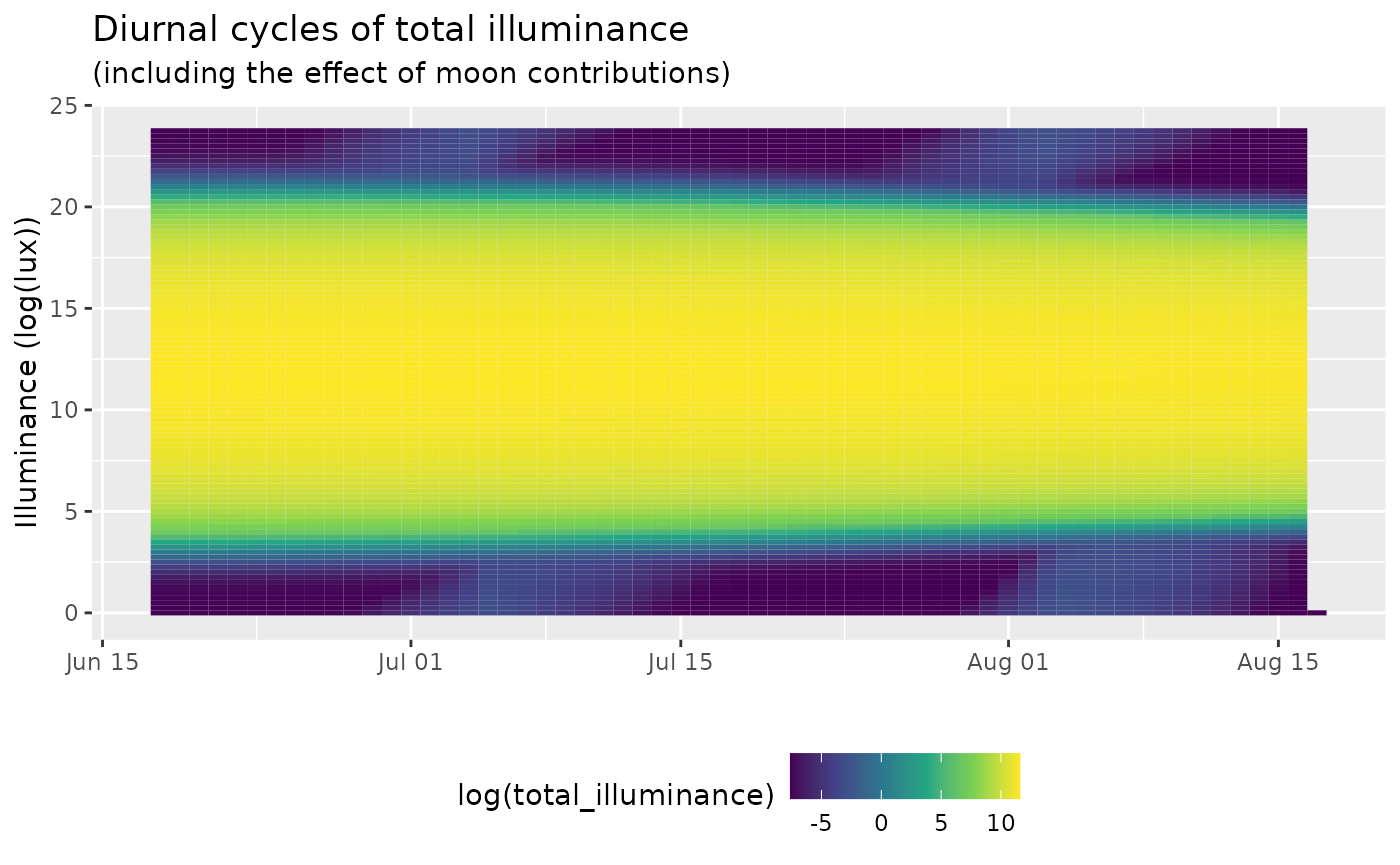
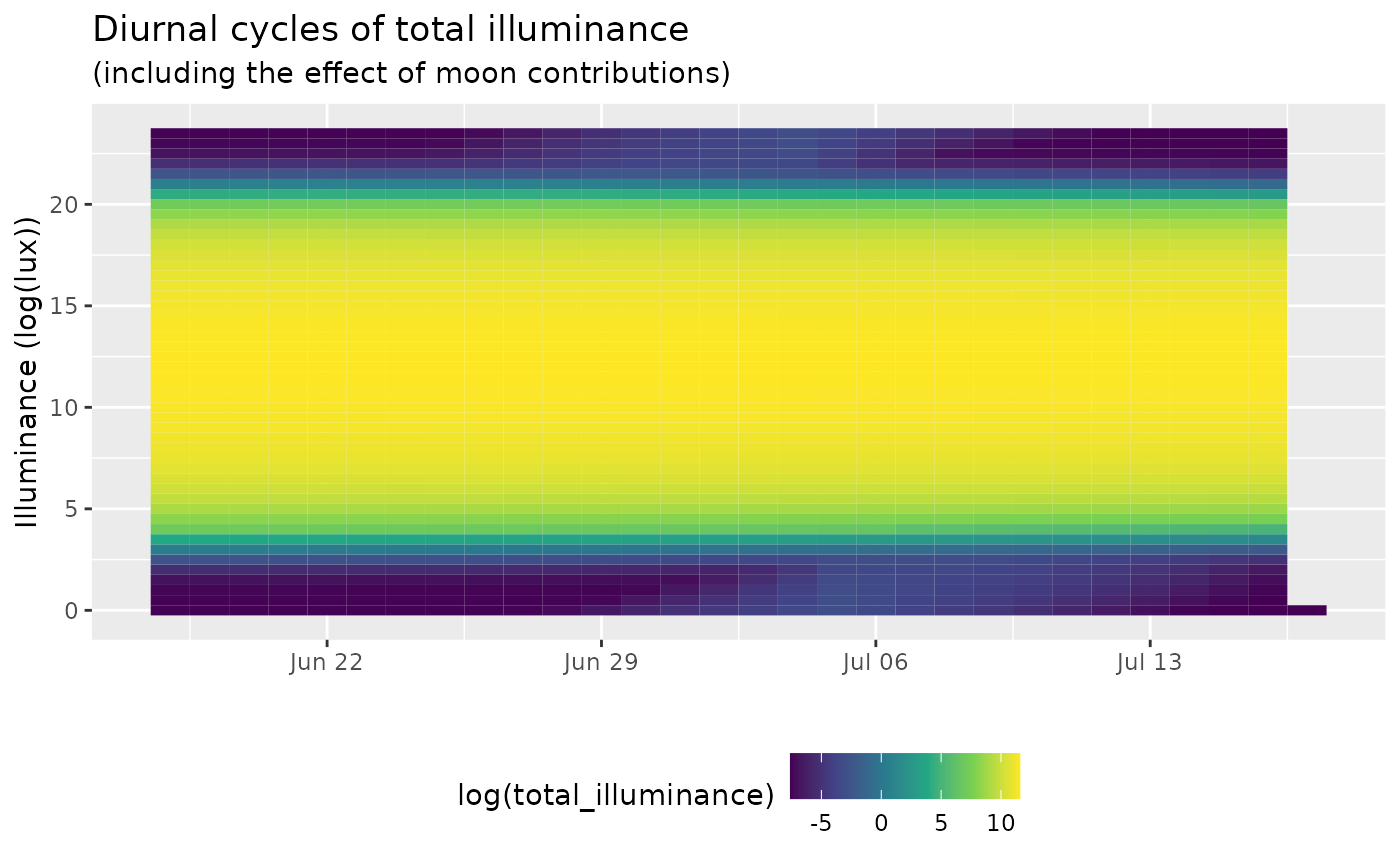
new docs

diff --git a/docs/index.html b/docs/index.html
@@ -5,7 +5,7 @@
 <meta charset="utf-8">
 <meta http-equiv="X-UA-Compatible" content="IE=edge">
 <meta name="viewport" content="width=device-width, initial-scale=1.0">
-<title>Sun and Moon illuminance values • skylight</title>
+<title>A simple sky illuminance model • skylight</title>
 <!-- favicons --><link rel="icon" type="image/png" sizes="16x16" href="/favicon-16x16.png">
 <link rel="icon" type="image/png" sizes="32x32" href="/favicon-32x32.png">
 <link rel="apple-touch-icon" type="image/png" sizes="180x180" href="/apple-touch-icon.png">
@@ -18,11 +18,12 @@
 <link href="https://fonts.googleapis.com/css2?family=Titillium+Web:ital,wght@0,300;0,400;0,700;1,300;1,400&amp;display=swap" rel="stylesheet">
 <!-- clipboard.js --><script src="https://cdnjs.cloudflare.com/ajax/libs/clipboard.js/2.0.4/clipboard.min.js" integrity="sha256-FiZwavyI2V6+EXO1U+xzLG3IKldpiTFf3153ea9zikQ=" crossorigin="anonymous"></script><!-- headroom.js --><script src="https://cdnjs.cloudflare.com/ajax/libs/headroom/0.9.4/headroom.min.js" integrity="sha256-DJFC1kqIhelURkuza0AvYal5RxMtpzLjFhsnVIeuk+U=" crossorigin="anonymous"></script><script src="https://cdnjs.cloudflare.com/ajax/libs/headroom/0.9.4/jQuery.headroom.min.js" integrity="sha256-ZX/yNShbjqsohH1k95liqY9Gd8uOiE1S4vZc+9KQ1K4=" crossorigin="anonymous"></script><!-- pkgdown --><link href="pkgdown.css" rel="stylesheet">
 <script src="pkgdown.js"></script><!-- ropensci --><link href="bglabs.css" rel="stylesheet">
-<meta property="og:title" content="Sun and Moon illuminance values">
-<meta property="og:description" content="Calculates sky illuminance (in lux) for both sun and moon. A
- verbatim translation of the code included in `Computer Programs for Sun and
- Moon Illuminance With Contingent Tables and Diagrams by Janiczek and DeYoung
- published in the US Naval observatory circular nr. 171, 1987.">
+<meta property="og:title" content="A simple sky illuminance model">
+<meta property="og:description" content="A simple sky illuminance model which calculates values (in lux) 
+ for both sun and moon. The model is a verbatim translation of the code 
+ included in `Computer Programs for Sun and Moon Illuminance With Contingent 
+ Tables and Diagrams by Janiczek and DeYoung published in the US Naval 
+ observatory circular nr. 171, 1987.">
 <meta property="og:image" content="/logo.png">
 <meta name="twitter:card" content="summary">
 </head>
@@ -95,14 +96,25 @@
       </header><div class="row">
   <div class="contents col-md-9">
 <div class="section level1">
-<div class="page-header"><h1 id="sky-illuminance-">Sky Illuminance <a href="https://github.com/bluegreen-labs/skylight" class="external-link"><img src="logo.png" align="right" height="139"></a>
-<a class="anchor" aria-label="anchor" href="#sky-illuminance-"></a>
+<div class="page-header"><h1 id="skylight-">Skylight <a href="https://github.com/bluegreen-labs/skylight" class="external-link"><img src="logo.png" align="right" height="139"></a>
+<a class="anchor" aria-label="anchor" href="#skylight-"></a>
 </h1></div>
 
-<p>The skylight package returns sky illuminance parameters for both the sun and the moon, for a given date/time and locaion. In addition to some ancillary parameters such as sun and moon azimuth and altitude.</p>
-<p>The code is an almost verbatim transcription of the work by Janiczek and DeYoung (1987), published in the US Naval observatory circular. An online copy of this manuscripts can be found on the internet archive (<a href="https://archive.org/details/DTIC_ADA182110" class="external-link uri">https://archive.org/details/DTIC_ADA182110</a>)</p>
-<p>Very few adjustments to the original code where made to ensure parity. As such, most of the naming of the subroutines was retained. However, some changes were made to the main routine and some aspects of the subroutines to ensure vectorization of the code so speed up batch processing of data.</p>
-<p>With time more detailed information will be added to all functions, including references to subroutine functions and more transparent variable names, while limiting variable recycling (a common practice in this code base). As it stands the code delivers parity with the programme certification values published in Table A of Janiczek and DeYoung (1987). These values are used in unit testing.</p>
+<p>The <code>skylight</code> package returns sky illuminance parameters for both the sun and the moon, for a given date/time and location. In addition, ancillary parameters such as sun and moon azimuth and altitude are provided. The code is an almost verbatim transcription of the work by Janiczek and DeYoung (1987), published in the US Naval observatory circular. An online copy of this manuscripts can be found on the internet archive (<a href="https://archive.org/details/DTIC_ADA182110" class="external-link uri">https://archive.org/details/DTIC_ADA182110</a>)</p>
+<p>Very few adjustments to the original code where made to ensure equivalency in results. As such, most of the naming of the subroutines and variables was retained. However, some changes were made to the main routine and subroutines to ensure vectorization of the code to speed up batch processing of data.</p>
+<p>With time more detailed information will be added to all functions, including references to subroutine functions and more transparent variable names, while limiting variable recycling (a common practice in the original code base). The code delivers equivalent results with the programme certification values published in Table A of Janiczek and DeYoung (1987), as such all original limitations remain (see below).</p>
+<div class="section level2">
+<h2 id="limitations">Limitations<a class="anchor" aria-label="anchor" href="#limitations"></a>
+</h2>
+<p>The sky illuminance model by Janiczek and DeYoung (1987) in <code>skylight</code> has some limitations:</p>
+<ul>
+<li>Design specifications aimed for 0.5 degrees in angle, or two minutes of times. Last digits should be considered uncertain by one unit.</li>
+<li>At latitudes less than 60 degrees, the model should agree with more refined calculations to within one or two minutes of time. For latitudes above this value the model can produce errors of up to four minutes.</li>
+<li>In some circumstances calculated illuminance values might differ from real light levels of a factor 10 or more.</li>
+<li>Strong coherence and proper time keeping is required, there is a strong requirement to provide dates in GMT, corrections based upon latitude (not civil time zone) should be executed before processing. No warnings are provided.</li>
+</ul>
+<p>Yet, overall the model should provide a fast approximation where more computationally expensive models would only provide marginal benefits. For a full description of the model I refer to Janiczek and DeYoung (1987).</p>
+</div>
 <div class="section level2">
 <h2 id="how-to-cite-this-package-in-your-article">How to cite this package in your article<a class="anchor" aria-label="anchor" href="#how-to-cite-this-package-in-your-article"></a>
 </h2>
@@ -144,9 +156,17 @@
 </h3>
 <p>skylight values can be calculated for a single point and date using the below call. This will generate a data frame with model values.</p>
 <div class="sourceCode" id="cb4"><pre class="downlit sourceCode r">
-<code class="sourceCode R"><span><span class="va">single_date</span> <span class="op">&lt;-</span> <span class="fu"><a href="reference/skylight.html">skylight</a></span><span class="op">(</span></span>
+<code class="sourceCode R"><span><span class="co"># load the library</span></span>
+<span><span class="kw"><a href="https://rdrr.io/r/base/library.html" class="external-link">library</a></span><span class="op">(</span><span class="va"><a href="https://github.com/bluegreen-labs/skylight" class="external-link">skylight</a></span><span class="op">)</span></span>
 <span></span>
-<span><span class="op">)</span></span></code></pre></div>
+<span><span class="co"># calculate sky illuminance values for</span></span>
+<span><span class="co"># a single date/time and location</span></span>
+<span><span class="va">df</span> <span class="op">&lt;-</span> <span class="fu"><a href="reference/skylight.html">skylight</a></span><span class="op">(</span></span>
+<span>      <span class="op">-</span><span class="fl">135.8</span>,</span>
+<span>      <span class="op">-</span><span class="fl">23.4</span>,</span>
+<span>      <span class="fu"><a href="https://rdrr.io/r/base/as.POSIXlt.html" class="external-link">as.POSIXct</a></span><span class="op">(</span><span class="st">"1986-12-18 21:00:00"</span>, tz <span class="op">=</span> <span class="st">"GMT"</span><span class="op">)</span>,</span>
+<span>      <span class="fl">1</span></span>
+<span>    <span class="op">)</span></span></code></pre></div>
 </div>
 <div class="section level3">
 <h3 id="multiple-datestimes-andor-locations">Multiple dates/times and/or locations<a class="anchor" aria-label="anchor" href="#multiple-datestimes-andor-locations"></a>
@@ -171,8 +191,6 @@
 <span>      <span class="fl">1</span></span>
 <span>    <span class="op">)</span></span>
 <span></span>
-<span><span class="fu"><a href="https://rdrr.io/r/base/print.html" class="external-link">print</a></span><span class="op">(</span><span class="fu"><a href="https://rdrr.io/r/utils/head.html" class="external-link">head</a></span><span class="op">(</span><span class="va">df</span><span class="op">)</span><span class="op">)</span></span>
-<span></span>
 <span><span class="co"># previous results are of the same dimension (rows)</span></span>
 <span><span class="co"># as the input data and can be bound together</span></span>
 <span><span class="co"># for easy plotting</span></span>
@@ -184,7 +202,7 @@
 <div class="section level2">
 <h2 id="licensing">Licensing<a class="anchor" aria-label="anchor" href="#licensing"></a>
 </h2>
-<p>The <code>skylight</code> package is distributed under a AGPLv3 license, while the skylight model code resides in the public domain made available by Janiczek and DeYoung (1987). The logo is in part based upon Emoji One v2.0 iconography data.</p>
+<p>The <code>skylight</code> package is distributed under a AGPLv3 license, while the skylight model code resides in the public domain made available by Janiczek and DeYoung (1987). The logo is in part based upon Emoji One v2.0 iconography.</p>
 </div>
 <div class="section level2">
 <h2 id="references">References<a class="anchor" aria-label="anchor" href="#references"></a>

diff --git a/docs/articles/skylight.html b/docs/articles/skylight.html
@@ -96,7 +96,7 @@
                         <h4 data-toc-skip class="author">Koen
 Hufkens</h4>
             
-            <h4 data-toc-skip class="date">2022-10-17</h4>
+            <h4 data-toc-skip class="date">2022-10-18</h4>
       
       <small class="dont-index">Source: <a href="https://github.com/bluegreen-labs/skylight/blob/HEAD/vignettes/skylight.Rmd" class="external-link"><code>vignettes/skylight.Rmd</code></a></small>
       <div class="hidden name"><code>skylight.Rmd</code></div>
@@ -141,7 +141,7 @@ call.</p>
 <span><span class="va">input</span> <span class="op">&lt;-</span> <span class="fu"><a href="https://rdrr.io/r/base/data.frame.html" class="external-link">data.frame</a></span><span class="op">(</span></span>
 <span>  longitude <span class="op">=</span> <span class="fl">0</span>,</span>
 <span>  latitude <span class="op">=</span> <span class="fl">50</span>,</span>
-<span>  date <span class="op">=</span>  <span class="fu"><a href="https://rdrr.io/r/base/as.POSIXlt.html" class="external-link">as.POSIXct</a></span><span class="op">(</span><span class="st">"2020-06-18 00:00:00"</span>, tz <span class="op">=</span> <span class="st">"GMT"</span><span class="op">)</span> <span class="op">+</span> <span class="fu"><a href="https://rdrr.io/r/base/seq.html" class="external-link">seq</a></span><span class="op">(</span><span class="fl">0</span>, <span class="fl">60</span><span class="op">*</span><span class="fl">24</span><span class="op">*</span><span class="fl">3600</span>, <span class="fl">900</span><span class="op">)</span>,</span>
+<span>  date <span class="op">=</span>  <span class="fu"><a href="https://rdrr.io/r/base/as.POSIXlt.html" class="external-link">as.POSIXct</a></span><span class="op">(</span><span class="st">"2020-06-18 00:00:00"</span>, tz <span class="op">=</span> <span class="st">"GMT"</span><span class="op">)</span> <span class="op">+</span> <span class="fu"><a href="https://rdrr.io/r/base/seq.html" class="external-link">seq</a></span><span class="op">(</span><span class="fl">0</span>, <span class="fl">29</span><span class="op">*</span><span class="fl">24</span><span class="op">*</span><span class="fl">3600</span>, <span class="fl">1800</span><span class="op">)</span>,</span>
 <span>  sky_conditions <span class="op">=</span> <span class="fl">1</span></span>
 <span><span class="op">)</span></span>
 <span></span>
@@ -157,18 +157,18 @@ call.</p>
 <span><span class="fu"><a href="https://rdrr.io/r/base/print.html" class="external-link">print</a></span><span class="op">(</span><span class="fu"><a href="https://rdrr.io/r/utils/head.html" class="external-link">head</a></span><span class="op">(</span><span class="va">df</span><span class="op">)</span><span class="op">)</span></span>
 <span><span class="co">#&gt;   sun_azimuth sun_altitude sun_illuminance moon_azimuth moon_altitude</span></span>
 <span><span class="co">#&gt; 1         360          -17    2.872734e-05           40           -18</span></span>
-<span><span class="co">#&gt; 2           3          -17    3.076232e-05           43           -17</span></span>
-<span><span class="co">#&gt; 3           7          -16    3.874383e-05           46           -15</span></span>
-<span><span class="co">#&gt; 4          10          -16    5.733049e-05           49           -13</span></span>
-<span><span class="co">#&gt; 5          14          -15    9.949008e-05           52           -11</span></span>
-<span><span class="co">#&gt; 6          17          -15    2.019566e-04           55            -9</span></span>
+<span><span class="co">#&gt; 2           7          -16    3.874383e-05           46           -15</span></span>
+<span><span class="co">#&gt; 3          14          -15    9.949008e-05           52           -11</span></span>
+<span><span class="co">#&gt; 4          21          -14    4.779034e-04           58            -7</span></span>
+<span><span class="co">#&gt; 5          28          -12    4.163346e-03           64            -3</span></span>
+<span><span class="co">#&gt; 6          34          -10    6.272634e-02           69             1</span></span>
 <span><span class="co">#&gt;   moon_illuminance moon_fraction total_illuminance</span></span>
 <span><span class="co">#&gt; 1     7.503453e-14            11      0.0005287273</span></span>
-<span><span class="co">#&gt; 2     4.008330e-13            11      0.0005307623</span></span>
-<span><span class="co">#&gt; 3     2.407014e-12            11      0.0005387438</span></span>
-<span><span class="co">#&gt; 4     1.611058e-11            10      0.0005573305</span></span>
-<span><span class="co">#&gt; 5     1.189855e-10            10      0.0005994902</span></span>
-<span><span class="co">#&gt; 6     9.575228e-10            10      0.0007019576</span></span>
+<span><span class="co">#&gt; 2     2.407014e-12            11      0.0005387438</span></span>
+<span><span class="co">#&gt; 3     1.189855e-10            10      0.0005994902</span></span>
+<span><span class="co">#&gt; 4     8.248541e-09            10      0.0009779116</span></span>
+<span><span class="co">#&gt; 5     6.409745e-07            10      0.0046639867</span></span>
+<span><span class="co">#&gt; 6     1.859100e-05            10      0.0632449283</span></span>
 <span></span>
 <span><span class="co"># previous results are of the same dimension (rows)</span></span>
 <span><span class="co"># as the input data and can be bound together</span></span>
@@ -196,6 +196,18 @@ call.</p>
 <span>    legend.position <span class="op">=</span> <span class="st">"bottom"</span></span>
 <span>  <span class="op">)</span></span></code></pre></div>
 <p><img src="skylight_files/figure-html/unnamed-chunk-3-1.png" width="700"></p>
+<p>Condensing this figure to only the mean half hourly value for a full
+moon captures the contributions of both sun and moon to the diurnal
+profile.</p>
+<pre><code><span><span class="co">#&gt; </span></span>
+<span><span class="co">#&gt; Attaching package: 'dplyr'</span></span>
+<span><span class="co">#&gt; The following objects are masked from 'package:stats':</span></span>
+<span><span class="co">#&gt; </span></span>
+<span><span class="co">#&gt;     filter, lag</span></span>
+<span><span class="co">#&gt; The following objects are masked from 'package:base':</span></span>
+<span><span class="co">#&gt; </span></span>
+<span><span class="co">#&gt;     intersect, setdiff, setequal, union</span></span></code></pre>
+<p><img src="skylight_files/figure-html/unnamed-chunk-4-1.png" width="700"></p>
 </div>
   </div>
 

diff --git a/docs/articles/skylight_advanced.html b/docs/articles/skylight_advanced.html
@@ -96,7 +96,7 @@
                         <h4 data-toc-skip class="author">Koen
 Hufkens</h4>
             
-            <h4 data-toc-skip class="date">2022-10-17</h4>
+            <h4 data-toc-skip class="date">2022-10-18</h4>
       
       <small class="dont-index">Source: <a href="https://github.com/bluegreen-labs/skylight/blob/HEAD/vignettes/skylight_advanced.Rmd" class="external-link"><code>vignettes/skylight_advanced.Rmd</code></a></small>
       <div class="hidden name"><code>skylight_advanced.Rmd</code></div>
@@ -106,19 +106,21 @@ Hufkens</h4>
     
     
 <div class="section level2">
-<h2 id="factoring-in-cloud-coverage">Factoring in cloud coverage<a class="anchor" aria-label="anchor" href="#factoring-in-cloud-coverage"></a>
+<h2 id="cloud-cover-correction">Cloud cover correction<a class="anchor" aria-label="anchor" href="#cloud-cover-correction"></a>
 </h2>
 <p>The original implementation of the software allows for a correction
-of illuminance based upon three conditions. However, this is in all
-practical sense a simple scaling of the data. You can either apply this
-scaling factor, a division by a number greater than 1 using the function
-itself, or apply it post-hoc on the returned values.</p>
+of illuminance based upon three cloud cover conditions. However, this is
+in all practical sense a simple scaling of the data (see Janiczek and
+DeYoung 1987). You can either apply this scaling factor, a division by a
+number greater than 1 using the function itself, or apply it post-hoc on
+the returned values. Below I show an example routine to use the internal
+scaling, using ERA5 total cloud cover (tcc) data.</p>
 <div class="section level3">
 <h3 id="downloading-cloud-cover-data">Downloading cloud cover data<a class="anchor" aria-label="anchor" href="#downloading-cloud-cover-data"></a>
 </h3>
-<p>To provide our analysis with cloud cover data we rely on the
-BlueGreen Labs <a href="https://github.com/bluegreen-labs/ecmwfr" class="external-link"><code>ecmwfr</code></a>
-package. So, we first query some total cloud cover data (0 - 1) covering
+<p>To provide our analysis with cloud cover data I rely on the BlueGreen
+Labs <a href="https://github.com/bluegreen-labs/ecmwfr" class="external-link"><code>ecmwfr</code></a>
+package. So, I first query some total cloud cover data (0 - 1) covering
 most of Europe.</p>
 <div class="sourceCode" id="cb1"><pre class="downlit sourceCode r">
 <code class="sourceCode R"><span><span class="kw"><a href="https://rdrr.io/r/base/library.html" class="external-link">library</a></span><span class="op">(</span><span class="va"><a href="https://github.com/bluegreen-labs/ecmwfr" class="external-link">ecmwfr</a></span><span class="op">)</span></span>
@@ -200,6 +202,10 @@ use with the <code>skylight</code> package.</p>
 <span><span class="co"># a single date/time and location</span></span>
 <span><span class="va">df</span> <span class="op">&lt;-</span> <span class="va">df</span> <span class="op">|&gt;</span></span>
 <span>  <span class="fu"><a href="https://dplyr.tidyverse.org/reference/mutate.html" class="external-link">mutate</a></span><span class="op">(</span></span>
+<span>    <span class="co"># values of cloud cover lower than</span></span>
+<span>    <span class="co"># 30% are considered clear conditions</span></span>
+<span>    <span class="co"># for the skylight model - adjust tcc values</span></span>
+<span>    tcc <span class="op">=</span> <span class="fu"><a href="https://rdrr.io/r/base/ifelse.html" class="external-link">ifelse</a></span><span class="op">(</span><span class="va">tcc</span> <span class="op">&lt;=</span> <span class="fl">0.3</span>, <span class="fl">0</span>, <span class="fl">1</span><span class="op">)</span>,</span>
 <span>    <span class="co"># rescale total cloud cover between 1 - 10</span></span>
 <span>    <span class="co"># the acceptable range for skylight</span></span>
 <span>    tcc <span class="op">=</span> <span class="fu">scales</span><span class="fu">::</span><span class="fu"><a href="https://scales.r-lib.org/reference/rescale.html" class="external-link">rescale</a></span><span class="op">(</span><span class="va">df</span><span class="op">$</span><span class="va">tcc</span>, to <span class="op">=</span> <span class="fu"><a href="https://rdrr.io/r/base/c.html" class="external-link">c</a></span><span class="op">(</span><span class="fl">1</span>,<span class="fl">10</span><span class="op">)</span><span class="op">)</span>,</span>
@@ -212,11 +218,16 @@ use with the <code>skylight</code> package.</p>
 <span>      <span class="va">tcc</span></span>
 <span>    <span class="op">)</span><span class="op">$</span><span class="va">total_illuminance</span></span>
 <span>  <span class="op">)</span></span></code></pre></div>
-<p>We can now plot the sky illuminance as corrected for cloud cover.</p>
+<p>I can now plot the sky illuminance as corrected for cloud cover using
+the internal scaling factor. Keep in mind that this is a rather ad-hoc
+solution. For proper results external empirical relationships should be
+established between the model response and measured illuminance values
+under varying cloud cover conditions.</p>
 <div class="sourceCode" id="cb5"><pre class="downlit sourceCode r">
 <code class="sourceCode R"><span><span class="kw"><a href="https://rdrr.io/r/base/library.html" class="external-link">library</a></span><span class="op">(</span><span class="va"><a href="https://ggplot2.tidyverse.org" class="external-link">ggplot2</a></span><span class="op">)</span></span>
 <span><span class="kw"><a href="https://rdrr.io/r/base/library.html" class="external-link">library</a></span><span class="op">(</span><span class="va"><a href="https://github.com/ropenscilabs/rnaturalearth" class="external-link">rnaturalearth</a></span><span class="op">)</span></span>
 <span></span>
+<span><span class="co"># country outlines</span></span>
 <span><span class="va">outlines</span> <span class="op">&lt;-</span> <span class="fu">rnaturalearth</span><span class="fu">::</span><span class="fu"><a href="https://rdrr.io/pkg/rnaturalearth/man/ne_countries.html" class="external-link">ne_countries</a></span><span class="op">(</span>returnclass <span class="op">=</span> <span class="st">"sf"</span><span class="op">)</span></span>
 <span></span>
 <span><span class="fu"><a href="https://ggplot2.tidyverse.org/reference/ggplot.html" class="external-link">ggplot</a></span><span class="op">(</span><span class="va">df</span><span class="op">)</span> <span class="op">+</span></span>

diff --git a/docs/news/index.html b/docs/news/index.html
@@ -66,8 +66,8 @@
     </div>
 
     <div class="section level2">
-<h2 class="page-header" data-toc-text="1.0" id="skylight-10">skylight 1.0<a class="anchor" aria-label="anchor" href="#skylight-10"></a></h2>
-<ul><li>first draft</li>
+<h2 class="page-header" data-toc-text="1.0" id="skylight-10-beta">skylight 1.0-beta<a class="anchor" aria-label="anchor" href="#skylight-10-beta"></a></h2>
+<ul><li>beta release</li>
 </ul></div>
   </div>
 

diff --git a/README.md b/README.md
@@ -1,4 +1,4 @@
-# Sky Illuminance <a href='https://github.com/bluegreen-labs/skylight'><img src='logo.png' align="right" height="139" /></a>
+# Skylight <a href='https://github.com/bluegreen-labs/skylight'><img src='logo.png' align="right" height="139" /></a>
 
 [![R-CMD-check](https://github.com/bluegreen-labs/skylight/workflows/R-CMD-check/badge.svg)](https://github.com/bluegreen-labs/skylight/actions)
 [![codecov](https://codecov.io/gh/bluegreen-labs/skylight/branch/main/graph/badge.svg?token=ZI3BYIG3MI)](https://codecov.io/gh/bluegreen-labs/skylight)
@@ -6,25 +6,35 @@
 [![](https://cranlogs.r-pkg.org/badges/skylight)](https://cran.r-project.org/package=skylight)
 [![DOI](https://zenodo.org/badge/DOI/10.5281/zenodo.6527639.svg)](https://doi.org/10.5281/zenodo.6527638)
 
-The skylight package returns sky illuminance parameters for both the sun and 
-the moon, for a given date/time and locaion. In addition to some ancillary 
-parameters such as sun and moon azimuth and altitude.
-
-The code is an almost verbatim transcription of the work by Janiczek and DeYoung
+The `skylight` package returns sky illuminance parameters for both the sun and 
+the moon, for a given date/time and location. In addition, ancillary 
+parameters such as sun and moon azimuth and altitude are provided. The code is an almost verbatim transcription of the work by Janiczek and DeYoung
 (1987), published in the US Naval observatory circular. An online copy of this
 manuscripts can be found on the internet archive 
-(<https://archive.org/details/DTIC_ADA182110>)
+(<https://archive.org/details/DTIC_ADA182110>).
 
-Very few adjustments to the original code where made to ensure parity. As such,
-most of the naming of the subroutines was retained. However, some changes were
-made to the main routine and some aspects of the subroutines to ensure 
-vectorization of the code so speed up batch processing of data. 
+Very few adjustments to the original code where made to ensure equivalency in results. As such, most of the naming of the subroutines and variables was retained. However, some changes were made to the main routine and subroutines to ensure 
+vectorization of the code to speed up batch processing of data. 
 
 With time more detailed information will be added to all functions, including 
 references to subroutine functions and more transparent variable names, while
-limiting variable recycling (a common practice in this code base). As it stands
-the code delivers parity with the programme certification values published in 
-Table A of Janiczek and DeYoung (1987). These values are used in unit testing.
+limiting variable recycling (a common practice in the original code base). The code delivers equivalent results with the programme certification values published in 
+Table A of Janiczek and DeYoung (1987), as such all original limitations remain (see below).
+
+## Limitations
+
+The sky illuminance model by Janiczek and DeYoung (1987) in `skylight` has some limitations:
+
+- Design specifications aimed for 0.5 degrees in angle, or two minutes of times. Last digits should be considered uncertain by one unit.
+- At latitudes less than 60 degrees, the model should agree with more refined calculations to within one or two minutes of time. For latitudes above this value the model can produce errors of up to four minutes.
+- In some circumstances calculated illuminance values might differ from real light
+levels of a factor 10 or more.
+- Strong coherence and proper time keeping is required, there is a strong requirement
+to provide dates in GMT, corrections based upon latitude (not civil time zone) should
+be executed before processing. No warnings are provided.
+
+Yet, overall the model should provide a fast approximation where more computationally expensive models would only provide marginal benefits. For a full description of the
+model I refer to Janiczek and DeYoung (1987).
 
 ## How to cite this package in your article
 
@@ -67,9 +77,17 @@ library("skylight")
 skylight values can be calculated for a single point and date using the below call. This will generate a data frame with model values.
 
 ```r
-single_date <- skylight(
+# load the library
+library(skylight)
 
-)
+# calculate sky illuminance values for
+# a single date/time and location
+df <- skylight(
+      -135.8,
+      -23.4,
+      as.POSIXct("1986-12-18 21:00:00", tz = "GMT"),
+      1
+    )
 ```
 
 ### Multiple dates/times and/or locations
@@ -95,8 +113,6 @@ df <- skylight(
       1
     )
 
-print(head(df))
-
 # previous results are of the same dimension (rows)
 # as the input data and can be bound together
 # for easy plotting
@@ -109,11 +125,10 @@ Plotting this data results in
 
 ## Licensing
 
-The `skylight` package is distributed under a AGPLv3 license, while the skylight model code resides in the public domain made available by Janiczek and DeYoung (1987). The logo is in part based upon Emoji One v2.0 iconography data.
+The `skylight` package is distributed under a AGPLv3 license, while the skylight model code resides in the public domain made available by Janiczek and DeYoung (1987). The logo is in part based upon Emoji One v2.0 iconography.
 
 ## References
 
 - Janiczek and DeYoung (1997). [Computer Programs for Sun and
  Moon Illuminance With Contingent Tables and Diagrams](https://archive.org/details/DTIC_ADA182110),
  US Naval observatory circular nr. 171, 1987
- 

diff --git a/NEWS.md b/NEWS.md
@@ -1,3 +1,3 @@
-# skylight 1.0
+# skylight 1.0-beta
 
-* first draft
+* beta release
